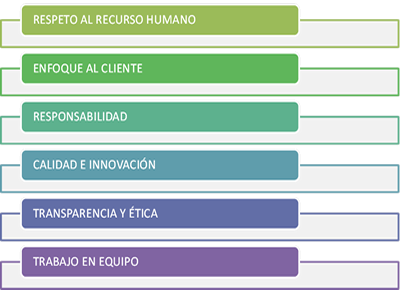
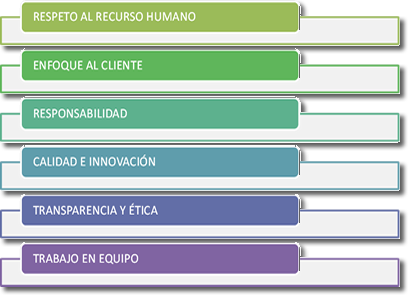
se le agregaron sombras a las imagenes

diff --git a/servicios.php b/servicios.php
@@ -70,7 +70,7 @@
                     <h3>EJECUCIÓN DE INGENIERÍAS EN SUS DIFERENTES FASES</h3><br>
                     <div class="row">
                         <div class="col-xs-11 col-sm-11 col-md-offset-1 col-md-11 text-justify text-med">
-                            <img class="img-responsive pull-right img-res-right" src="imagenes/fases.jpg" style="border-radius:8px;" alt="EJECUCIÓN " title="EJECUCIÓN ">
+                            <img class="img-responsive pull-right img-res-right" src="imagenes/fases.jpg" style="border-radius:8px; box-shadow: #555 4px 4px 8px;" alt="EJECUCIÓN " title="EJECUCIÓN ">
                             Conformación de equipos multidisciplinarios para la ejecución de ingenierías, con
                             sólidas fortalezas en la gestión gerencial y comunicacional cliente-consultor, con la
                             flexibilidad de trabajar a distancia. Incluye entre otras: <br><br>
@@ -113,7 +113,7 @@
                                 <br><br>
                             </div>
                             <div class="col-xs-offset-3 col-xs-6 col-sm-offset-0 col-sm-6 col-sm-6 col-md-6">
-                                <img class="img-responsive round" src="imagenes/maduracion.jpg" style="margin:0 auto; border-radius:8px;" alt="MADURACIÓN" title="MADURACIÓN">
+                                <img class="img-responsive round" src="imagenes/maduracion.jpg" style="margin:0 auto; border-radius:8px; box-shadow: #555 4px 4px 8px;" alt="MADURACIÓN" title="MADURACIÓN">
                             </div>
                         </div>
                 </div>
@@ -143,7 +143,7 @@
                                 <br><br>
                             </div>
                             <div class="col-xs-offset-3 col-xs-6 col-sm-offset-0 col-sm-6 col-sm-6 col-md-6">
-                                <img class="img-responsive round" src="imagenes/estudios.jpg" style="margin:0 auto; border-radius:8px;" alt="ESTUDIOS ESPECIALES" title="ESTUDIOS ESPECIALES">
+                                <img class="img-responsive round" src="imagenes/estudios.jpg" style="margin:0 auto; border-radius:8px; box-shadow: #555 4px 4px 8px;" alt="ESTUDIOS ESPECIALES" title="ESTUDIOS ESPECIALES">
                             </div>
                         </div>
                 </div>
@@ -168,7 +168,7 @@
                             <img class="img-responsive" src="imagenes/modelos-3d-soft.png"
                                   style="display: inline-block; margin:0 2%; border-radius:8px;" alt="MODELOS 3D" title="MODELOS 3D">
                             <img class="img-responsive hidden-xs " src="imagenes/modelos-3d.jpg"
-                                  style="display: inline-block; margin:0 2%; border-radius:8px;" alt="MODELOS 3D" title="MODELOS 3D">
+                                  style="display: inline-block; margin:0 2%; border-radius:8px; box-shadow: #555 4px 4px 8px;" alt="MODELOS 3D" title="MODELOS 3D">
                         </div>
                     </div>
                 </div>
@@ -199,7 +199,7 @@
                                 <br><br>
                             </div>
                             <div class="col-xs-offset-3 col-xs-6 col-sm-offset-0 col-sm-6 col-sm-6 col-md-6">
-                                <img class="img-responsive round" src="imagenes/commissioning.jpg" style="margin:0 auto; border-radius:8px;" alt="COMMISSIONING" title="COMMISSIONING">
+                                <img class="img-responsive round" src="imagenes/commissioning.jpg" style="margin:0 auto; border-radius:8px; box-shadow: #555 4px 4px 8px;" alt="COMMISSIONING" title="COMMISSIONING">
                             </div>
                         </div>
                 </div>
@@ -212,7 +212,7 @@
                     PETRÓLEO</h3>
                     <div class="row">
                         <div class="col-xs-11 col-sm-11 col-md-offset-1 col-md-11 text-justify text-peq">
-                            <img class="img-responsive pull-right img-res-right" src="imagenes/commissioning1.jpg" style="border-radius:8px;" alt="EJECUCIÓN " title="EJECUCIÓN ">
+                            <img class="img-responsive pull-right img-res-right" src="imagenes/commissioning1.jpg" style="border-radius:8px; box-shadow: #555 4px 4px 8px;" alt="EJECUCIÓN " title="EJECUCIÓN ">
                             Estas son fases muy importantes para la excelente finalización del proyecto en la cual
                             hay un solape entre la Gerencia de Construcción y Arranque. Resulta clave incorporar
                             al personal que se encargará del arranque en las etapas tempranas del mismo.
@@ -254,7 +254,7 @@
                     PETRÓLEO</h3><br><br>
                     <div class="row">
                         <div class="col-xs-11 col-sm-11 col-md-offset-1 col-md-11 text-justify text-med">
-                            <img class="img-responsive pull-right img-res-right" src="imagenes/commissioning2.jpg" style="border-radius:8px;" alt="EJECUCIÓN " title="EJECUCIÓN ">
+                            <img class="img-responsive pull-right img-res-right" src="imagenes/commissioning2.jpg" style="border-radius:8px; box-shadow: #555 4px 4px 8px;" alt="EJECUCIÓN " title="EJECUCIÓN ">
                             <h4>COMISIONAMIENTO Y ARRANQUE</h4>
                                     <ul style="margin-left:5px;">
                                         <li>Alcanzar el nivel mínimo para la operación estable y segura de la planta,

diff --git a/nosotros.php b/nosotros.php
@@ -58,7 +58,7 @@ include("php/menu.php");
                             Proyecto y  Arranque de instalaciones. <br><br>
                         </div>
                         <div class="col-xs-offset-3 col-xs-6 col-sm-offset-0 col-sm-6 col-sm-6 col-md-6">
-                            <img class="img-responsive round" src="imagenes/quienes.jpg" style="margin:0 auto; border-radius:8px;" alt="QUIÉNES SOMOS" title="QUIÉNES SOMOS">
+                            <img class="img-responsive round" src="imagenes/quienes.jpg" style="margin:0 auto; border-radius:8px; box-shadow: #555 4px 4px 8px;" alt="QUIÉNES SOMOS" title="QUIÉNES SOMOS">
                         </div>
                     </div>
                 </div>
@@ -71,7 +71,7 @@ include("php/menu.php");
                     <h3 id="ofrecemos">¿QUÉ OFRECEMOS?</h3>
                     <div class="row">
                         <div class="col-xs-11 col-sm-11 col-md-offset-1 col-md-11 text-justify text-med">
-                            <img class="img-responsive pull-left img-res-left" src="imagenes/ofrecemos.jpg" style="border-radius:8px;" alt="QUÉ OFRECEMOS" title="QUÉ OFRECEMOS">
+                            <img class="img-responsive pull-left img-res-left" src="imagenes/ofrecemos.jpg" style="border-radius:8px; box-shadow: #555 4px 4px 8px;" alt="QUÉ OFRECEMOS" title="QUÉ OFRECEMOS">
                             El personal que integra <strong>C&amp;F ENGINEERING</strong>, especialistas en diferentes áreas de
                             ingeniería, pre arranque y arranque de instalaciones de Gas Natural y Petróleo,
                             cuenta con una amplia trayectoria de proyectos exitosos dentro de la industria
@@ -100,7 +100,7 @@ include("php/menu.php");
                     <div class="row">
                         <div class="col-xs-11 col-sm-11 col-md-offset-1 col-md-11 text-justify text-grd">
                             <img class="img-responsive pull-left img-res-left" src="imagenes/mision.jpg"
-                                  style="border-radius:8px;" alt="MISIÓN Y VISIÓN" title="MISIÓN Y VISIÓN">
+                                  style="border-radius:8px;  box-shadow: #555 4px 4px 8px;" alt="MISIÓN Y VISIÓN" title="MISIÓN Y VISIÓN">
                                   Nuestra <strong>VISIÓN</strong> es ser una empresa de servicios reconocida
                                   como líder en la creación de valor para nuestros clientes en el negocio de Estudios
                                   Integrales, Ingeniería, Definición y mejora continua de Procesos, mediante la
@@ -182,7 +182,7 @@ include("php/menu.php");
                         <div class="row">
                             <div class="col-xs-11 col-sm-11 col-md-offset-1 col-md-11 text-justify text-med">
                             <img class="img-responsive pull-right img-res-right" src="imagenes/por-que.jpg"
-                                  style="border-radius:8px;" alt="POR QUÉ NOSOTROS" title="POR QUÉ NOSOTROS">
+                                  style="border-radius:8px; box-shadow: #555 4px 4px 8px;" alt="POR QUÉ NOSOTROS" title="POR QUÉ NOSOTROS">
                                   Nuestra esencia es la generación y sostenibilidad de una relación estrecha con
                                   Clientes y Proveedores, cuya explicación más simple reside en el efecto sinérgico y
                                   dinámico que pretendemos dar a nuestras acciones. <br>

diff --git a/experiencia.php b/experiencia.php
@@ -436,7 +436,7 @@
                     <h3 style="margin-bottom:2%;">DIRECTORES C&amp;F ENG - DIRECTORA EJECUTIVA</h3>
                     <div class="row">
                         <div class="col-xs-11 col-sm-11 col-md-offset-1 col-md-11 text-justify text-mpeq">
-                            <img class="img-responsive pull-right" src="imagenes/natalia.jpg" style="width:25%; margin-left:4%; border-radius:8px; border: 1px solid #A0A0A0;" alt="Ivan Gamero" title="Ivan Gamero">
+                            <img class="img-responsive pull-right" src="imagenes/natalia.jpg" style="width:25%; margin-left:4%; border-radius:8px; border: 1px solid #A0A0A0; box-shadow: #555 4px 4px 8px;" alt="Ivan Gamero" title="Ivan Gamero">
                             <h4>Natalia Cataldo</h4>
                             Gerente Senior de Proyectos, con más de 30 años de experiencia y exitoso
                             desempeño en Gerencia de Proyectos para la Industria de Petróleo, Refinación y Gas,
@@ -493,7 +493,7 @@
 </h3>
                     <div class="row">
                         <div class="col-xs-11 col-sm-11 col-md-offset-1 col-md-11 text-justify text-mpeq">
-                            <img class="img-responsive pull-right" src="imagenes/ivan.jpg" style="width:25%; margin-left:4%; border-radius:8px; border: 1px solid #A0A0A0;" alt="Ivan Gamero" title="Ivan Gamero">
+                            <img class="img-responsive pull-right" src="imagenes/ivan.jpg" style="width:25%; margin-left:4%; border-radius:8px; border: 1px solid #A0A0A0; box-shadow: #555 4px 4px 8px;" alt="Ivan Gamero" title="Ivan Gamero">
                             <h4>Ivan Gamero</h4>
                             Gerente de Commissioning para Petróleo y Gas Natural. 33 años de experiencia.
                             Responsabilidad sobre la fase final de construcción, completamiento mecánico de
@@ -534,7 +534,7 @@
                     <h3>DIRECTORES C&amp;F ENG - DIRECTOR TÉCNICO</h3>
                     <div class="row">
                         <div class="col-xs-11 col-sm-11 col-md-offset-1 col-md-11 text-justify text-mpeq">
-                            <img class="img-responsive pull-right" src="imagenes/mariby.jpg" style="width:25%; margin-left:4%; border-radius:8px; border: 1px solid #A0A0A0;" alt="Ivan Gamero" title="Ivan Gamero">
+                            <img class="img-responsive pull-right" src="imagenes/mariby.jpg" style="width:25%; margin-left:4%; border-radius:8px; border: 1px solid #A0A0A0; box-shadow: #555 4px 4px 8px;" alt="Ivan Gamero" title="Ivan Gamero">
                             <h4>Mariby Figuera</h4>
                             Ingeniero Mecánico e Ingeniero de Sistemas Mención Control de Procesos con más
                             de 15 años de Experiencia Profesional en la Ejecución y Coordinación de Proyectos

diff --git a/adiestramiento.php b/adiestramiento.php
@@ -52,7 +52,7 @@
                     <h3>ADIESTRAMIENTOS</h3><br>
                     <div class="row">
                         <div class="col-xs-11 col-sm-11 col-md-offset-1 col-md-11 text-justify text-med">
-                            <img class="img-responsive pull-right img-res-right" src="imagenes/adiestramiento.jpg" style="border-radius:8px;" alt="EJECUCIÓN " title="EJECUCIÓN ">
+                            <img class="img-responsive pull-right img-res-right" src="imagenes/adiestramiento.jpg" style="border-radius:8px; box-shadow: #555 4px 4px 8px;" alt="EJECUCIÓN " title="EJECUCIÓN ">
                             “En Casa” o Cursos / Talleres programados básicamente en las siguientes áreas:
                              <br><ul>
                                  <li>Ingeniería de Procesos.</li>
@@ -85,8 +85,8 @@
                             <h4>PROXIMAMENTE se estarán dictando los cursos:</h4>
                              <br><br>
                                 <ul>
-                                 <li><a href="pdf/Análisis de esfuerzos y Flexibilidad Avanzado (Modulo 1).pdf" target="_blank">Análisis de esfuerzos y Flexibilidad Avanzado (Modulo 1).pdf</a></li><br>
-                                 <li><a href="pdf/Análisis de esfuerzos y Flexibilidad para Líderes de Tuberías.pdf" target="_blank">Análisis de esfuerzos y Flexibilidad para Líderes de Tuberías.</a></li>
+                                 <li><a href="pdf/Analisis de esfuerzos y Flexibilidad Avanzado (Modulo 1).pdf" target="_blank">Análisis de esfuerzos y Flexibilidad Avanzado (Modulo 1).pdf</a></li><br>
+                                 <li><a href="pdf/Analisis de esfuerzos y Flexibilidad para Lideres de Tuberias.pdf" target="_blank">Análisis de esfuerzos y Flexibilidad para Líderes de Tuberías.</a></li>
                              </ul>
                              <br>
                         </div>

diff --git a/estrategia.php b/estrategia.php
@@ -73,7 +73,7 @@
                     <h3>CAPACIDAD DE EJECUCIÓN</h3><br><br><br><br><br>
                     <div class="row">
                         <div class="col-xs-11 col-sm-11 col-md-offset-1 col-md-11 text-justify text-med">
-                            <img class="img-responsive pull-left img-res-left" src="imagenes/ejecucion.jpg" style="border-radius:8px;" alt="EJECUCIÓN " title="EJECUCIÓN ">
+                            <img class="img-responsive pull-left img-res-left" src="imagenes/ejecucion.jpg" style="border-radius:8px; box-shadow: #555 4px 4px 8px;" alt="EJECUCIÓN " title="EJECUCIÓN ">
                             <strong>C&amp;F ENGINEERING</strong> cuenta con el soporte de profesionales
                              multidisciplinarios que le otorgan una Capacidad de Ejecución adaptable a las
                              necesidades y que se puede expandir de manera flexible a través de su red de

diff --git a/manejo.php b/manejo.php
@@ -59,7 +59,7 @@
                     <div class="row">
                         <div class="col-xs-11 col-sm-11 col-md-offset-1 col-md-11 text-justify text-grd">
                             <img class="img-responsive" src="imagenes/software.png"
-                                  style="margin:0 auto; border-radius:8px;" alt="SECTORES" title="SECTORES">
+                                  style="margin:0 auto; border-radius:8px; box-shadow: #555 4px 4px 8px;" alt="SECTORES" title="SECTORES">
                         </div>
                     </div>
                 </div>
